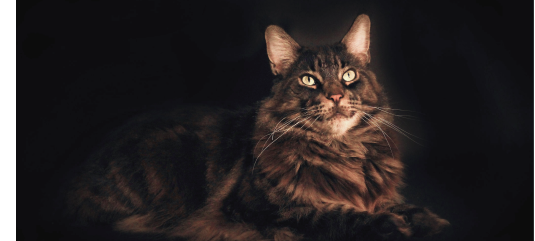
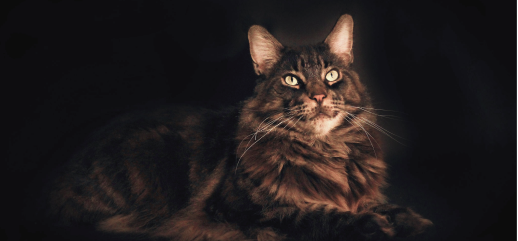
Сверстаны хедер и раздел Питомцы

diff --git a/index.html b/index.html
@@ -4,23 +4,57 @@
   <meta charset="UTF-8">
   <meta http-equiv="X-UA-Compatible" content="IE=edge">
   <meta name="viewport" content="width=device-width, initial-scale=1.0">
+
   <link rel="stylesheet" href="style.css">
+  <script src="https://kit.fontawesome.com/5b8895b9e3.js" crossorigin="anonymous"></script>
   <script src="/index.js" defer></script>
   <title>MCoon House</title>
 </head>
 <body>
   <header>
-    <h1>Питомник Мейн Кунов</h1>
+    <div class="logo">
+      <img src="./img/crown.png" alt="лого">
+    </div>
+    <div class="slider">
+      <div class="slider-info">
+        <p>Новосибирск</p>
+        <h1>Питомник Мейн-Кунов</h1>
+        <p>Первый питомник с расширенным спектром услуг</p>
+        <a class="btn-link" href="#">Смотреть котиков</a>
+      </div>
+      <img class="cat-slide" src="./img/46756483971_0b28aebcc3_o 1.png" alt="кот лого">
+      <img class="cat-slide hidden" src="./img/котя@2x.png" alt="кот лого">
+    </div>
   </header>
   <section class="cats">
-    <ul>
-      <li>Коты</li>
-      <li>Кошки</li>
-      <li>Котята</li>
-    </ul>
+    <div class="cats-wrapper">
+      <div class="cats-description">
+        <h2>Питомцы</h2>
+        <p>
+          Все представители нашего питомника имеют ветеринарный паспорт 
+          с отметками о прививках и документ с родословной
+        </p>
+      </div>
+  
+      <ul class="cats-category">
+        <li>Коты</li>
+        <li>Кошки</li>
+        <li>Котята</li>
+      </ul>
+      <div class="cats-slider">
+        <div class="cats-slide-wrapper cat1">
+          <img src="/img/Mask Group(3).png" alt="карточка кота">
+        </div>
+        <div class="cats-slide-wrapper cat2">
+          <img src="/img/Mask Group (1).png" alt="карточка кота">
+        </div>
+        <div class="cats-slide-wrapper cat3">
+          <img src="/img/Mask Group (2).png" alt="карточка кота">
+        </div>
+      </div>
+      <a class="btn-link" href="#">Смотреть больше</a>
+    </div>
+
   </section>
-  <footer>
-    <p>Наши контакты</p>
-  </footer>
 </body>
 </html>

diff --git a/style.css b/style.css
@@ -1,0 +1,149 @@
+@import url("https://fonts.googleapis.com/css2?family=Roboto&display=swap");
+
+* {
+  margin: 0;
+  padding: 0;
+  box-sizing: border-box;
+}
+
+body {
+  margin: 0 auto;
+  max-width: 1366px;
+  min-height: 100vh;
+  font-family: "Roboto", sans-serif;
+  font-size: 16px;
+  color: #fff;
+  background-color: #000;
+}
+
+header {
+  position: relative;
+  background-color: #181617;
+}
+
+p {
+  color: #bd966a;
+  line-height: 150%;
+}
+
+.slider {
+  height: 684px;
+  display: flex;
+  justify-content: flex-start;
+  align-items: center;
+}
+
+.slider > * {
+  flex-shrink: 0;
+}
+
+.slider-info {
+  margin-left: 200px;
+  width: 300px;
+}
+
+.slider-info h1 {
+  padding: 20px 0;
+  font-size: 52px;
+}
+
+.btn-link {
+  margin-top: 50px;
+  padding: 18px 35px;
+  display: inline-block;
+  font-size: 14px;
+  font-weight: bold;
+  color: #fff;
+  text-decoration: none;
+  border: 2px solid #bd966a;
+}
+
+.btn-link:hover {
+  background-color: #bd966a;
+}
+
+.cat-slide {
+  position: absolute;
+  top: 0;
+  right: 0;
+  z-index: 2;
+}
+
+.cat-slide.hidden {
+  transition: opacity 1s;
+  opacity: 0;
+}
+
+.logo {
+  text-align: center;
+}
+
+.cats {
+  padding: 220px 0;
+  background-color: #1f1c1d;
+}
+
+.cats-wrapper {
+  margin: 0 auto;
+  width: 1050px;
+  text-align: center;
+}
+
+.cats-wrapper > * {
+  margin-left: auto;
+  margin-right: auto;
+}
+
+.cats h2 {
+  margin-bottom: 15px;
+  font-size: 36px;
+}
+
+.cats-description {
+  width: 520px;
+}
+
+.cats-category {
+  margin: 36px auto;
+  width: 280px;
+  display: flex;
+  justify-content: space-around;
+  list-style: none;
+}
+
+.cats-category li {
+  font-size: 18px;
+  opacity: 0.4;
+  cursor: pointer;
+}
+
+.cats-category li:hover,
+:active {
+  opacity: 1;
+}
+
+.cats-slider {
+  height: 530px;
+  display: grid;
+  grid-gap: 10px;
+  grid-template-columns: repeat(2, 1fr);
+  grid-template-rows: repeat(2, 1fr);
+}
+
+.cat1 {
+  grid-column: 1 / 2;
+  grid-row: 1 / 2;
+  align-self: center;
+}
+
+.cat2 {
+  grid-column: 1 / 2;
+  grid-row: 2 / 3;
+  align-self: center;
+}
+
+.cat3 {
+  grid-column: 2 / 3;
+  grid-row: 1 / 3;
+  align-self: center;
+}

diff --git a/index.js b/index.js
@@ -1,0 +1,14 @@
+const slideItems = document.querySelectorAll(".cat-slide");
+const hiddenSlide = document.querySelector(".hidden");
+
+function changeSlide() {
+  slideItems.forEach((slide) => {
+    if (slide.classList.contains("hidden")) {
+      slide.classList.remove("hidden");
+    } else {
+      slide.classList.add("hidden");
+    }
+  });
+}
+
+setInterval(changeSlide, 5000);
